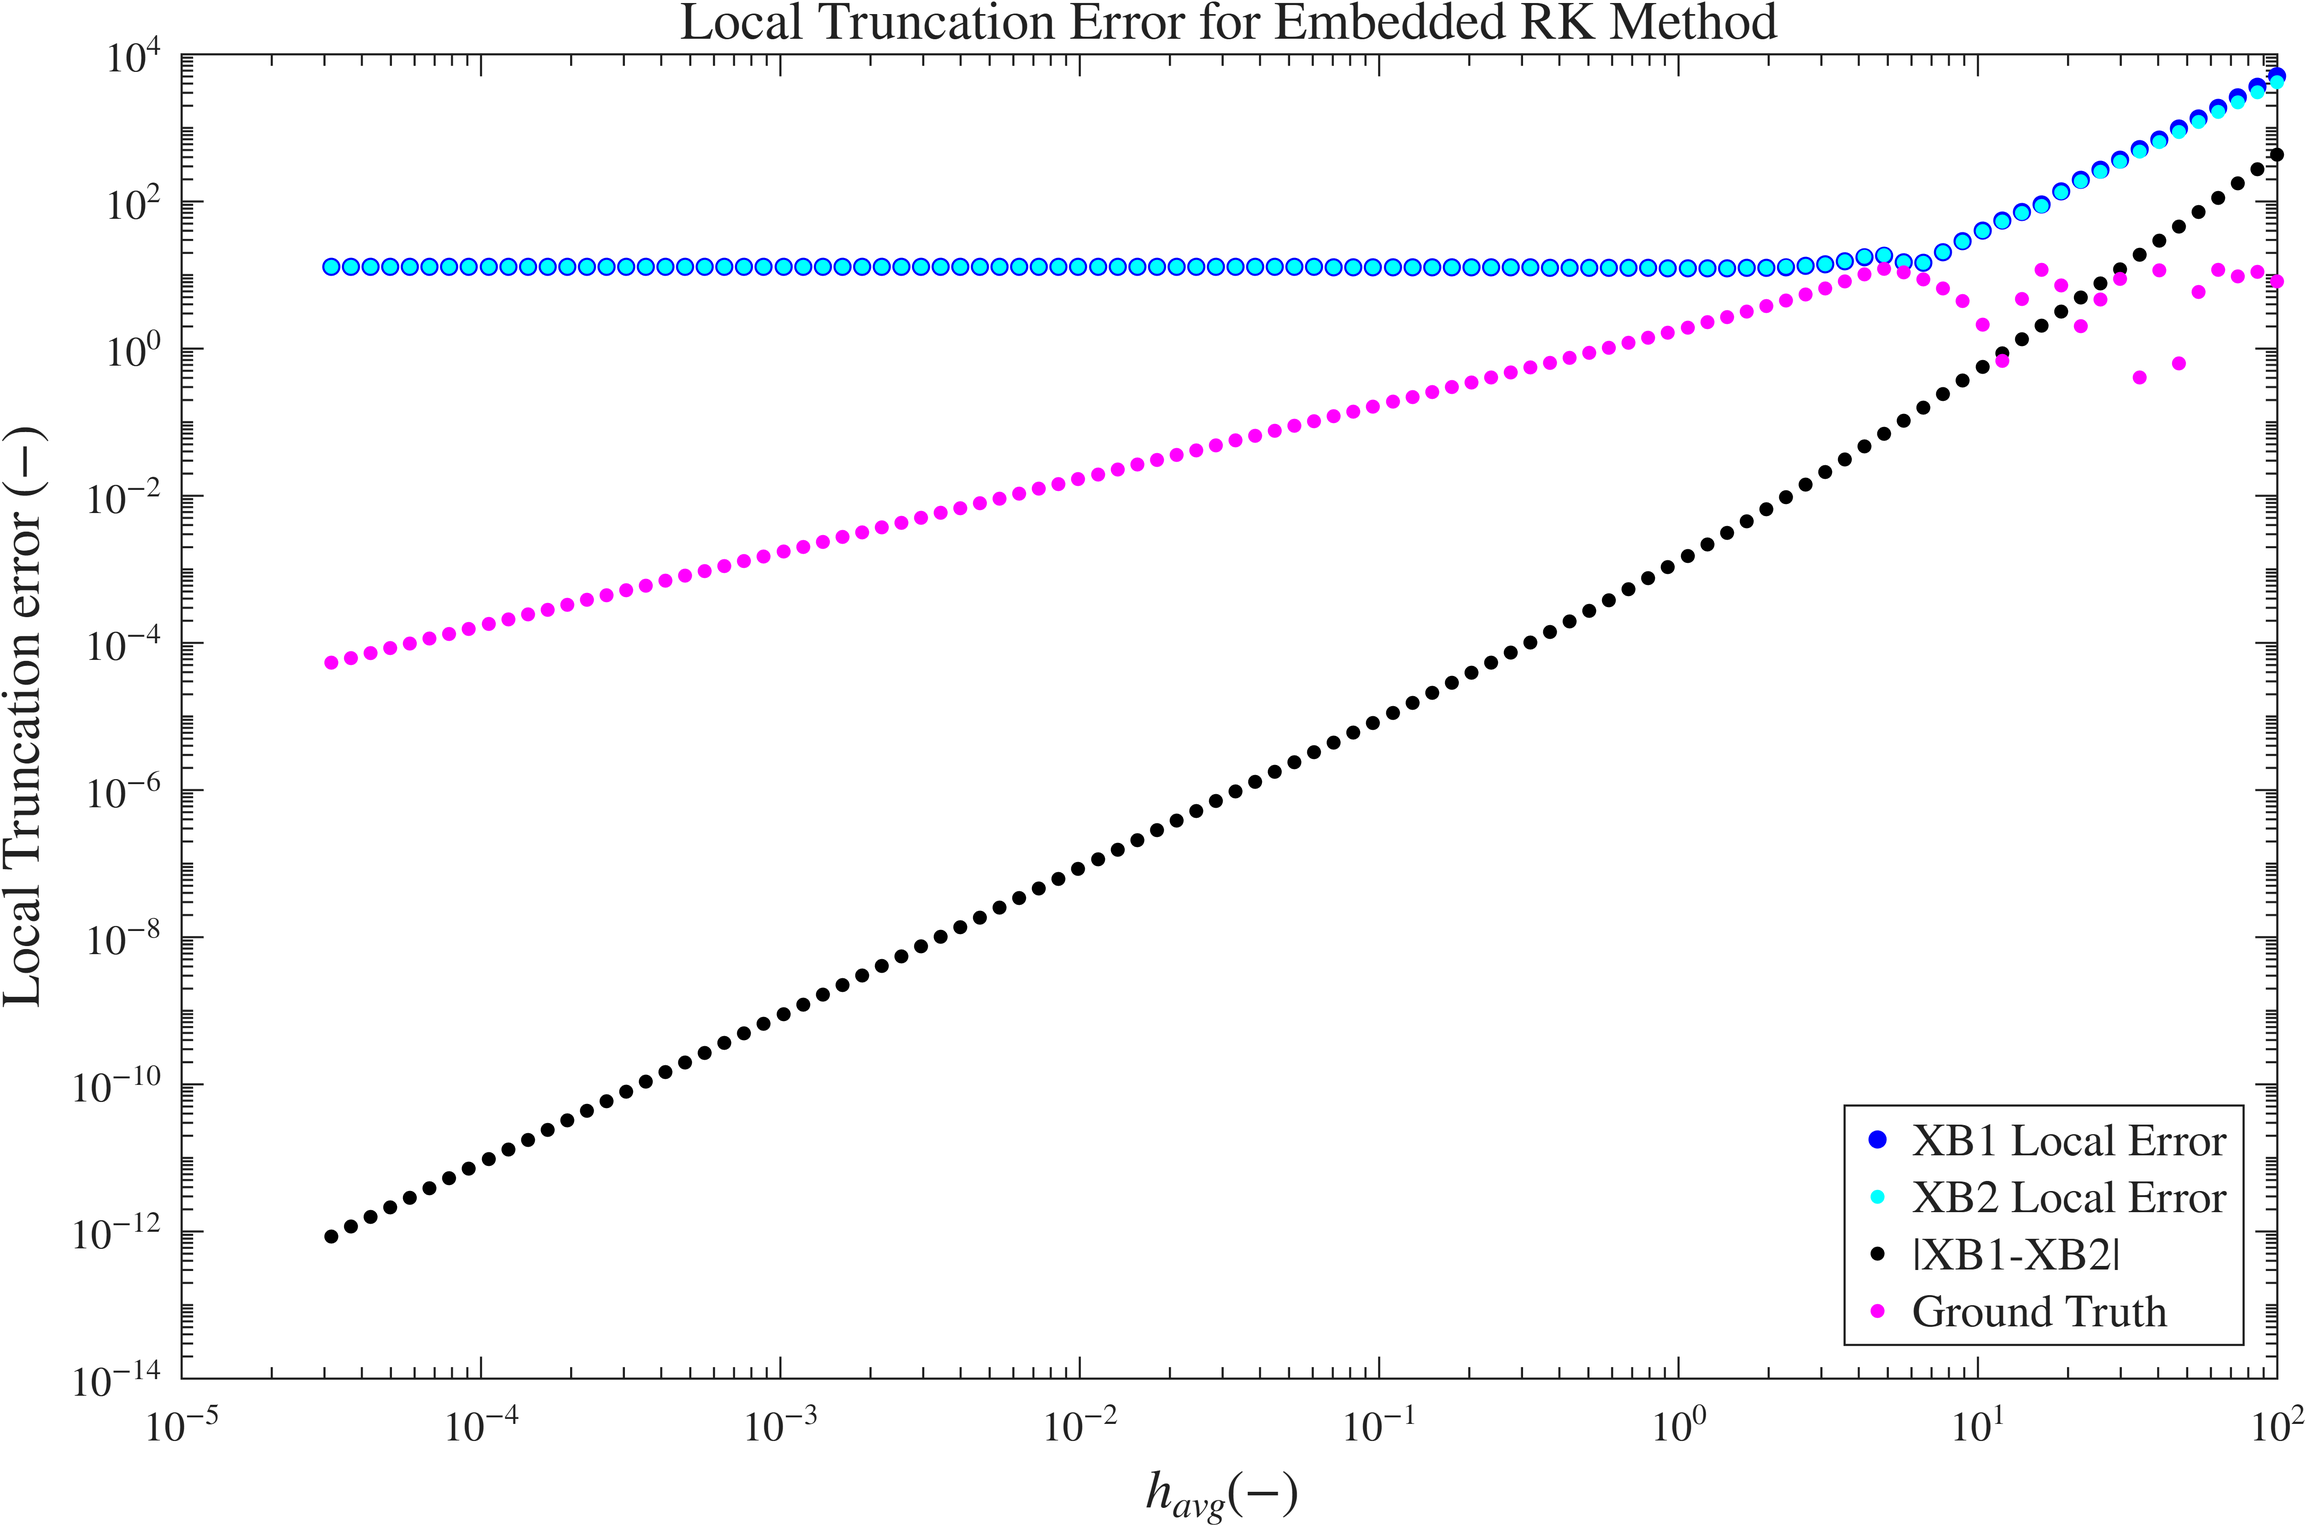
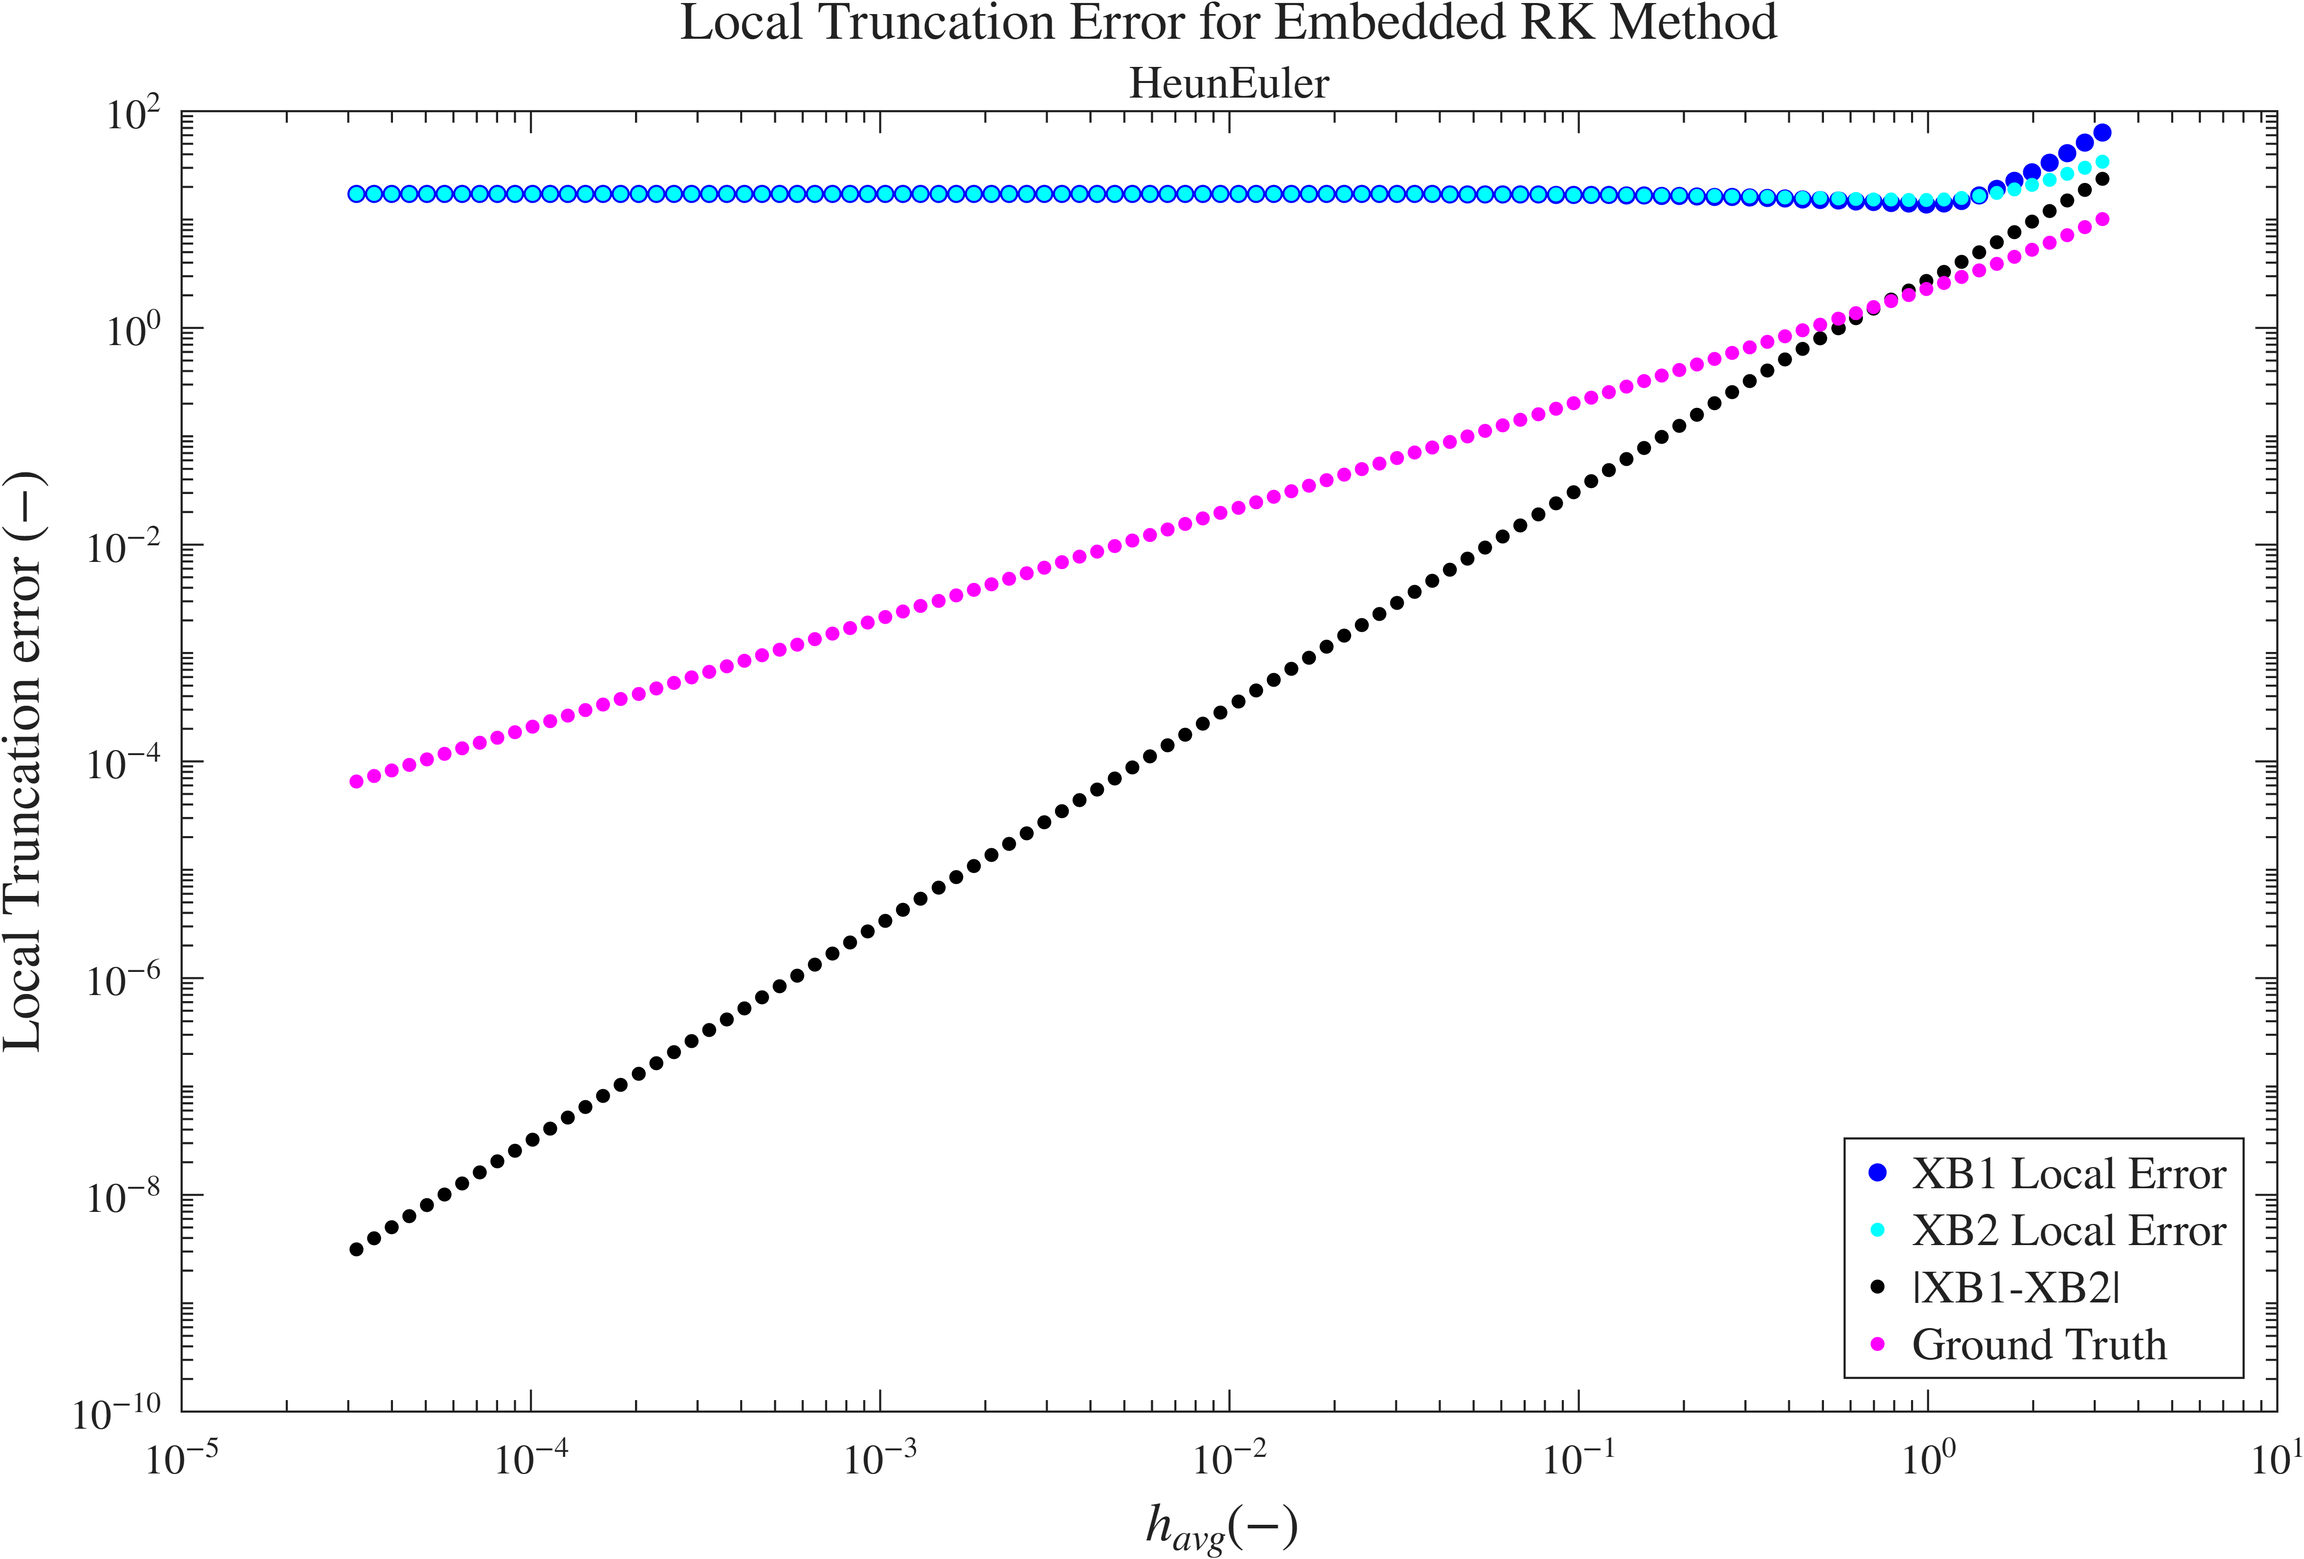
update code

diff --git a/run_local_error.m b/run_local_error.m
@@ -1,5 +1,5 @@
 function run_local_error()
-    close all;
+    %close all;
     set(groot, 'defaultTextInterpreter', 'latex');
     set(groot, 'defaultAxesTickLabelInterpreter', 'latex');
     set(groot, 'defaultLegendInterpreter', 'latex');
@@ -12,12 +12,12 @@ function run_local_error()
     
     BT_struct_var = butcher_tableau_struct_var_step();
     BT_struct_var_names = ["DormandPrince", "Fehlberg", "FehlbergRK1", "HeunEuler", "Bogacki"];
-    index= 3;
-    BT_struct = BT_struct_var(index);
-    t = 0.492;
+    index= 4;
+    BT_struct = BT_struct_var(index)
+    t = 7;
     VA = compute_planetary_motion(t,V0,orbit_params)';
 
-    hs = logspace(-4.5,2,100);
+    hs = logspace(-4.5,.5,100);
     local_errors_1 = zeros(size(hs));
     local_errors_2 = zeros(size(hs));
     approx_sol_diff = zeros(size(hs));
@@ -43,7 +43,7 @@ function run_local_error()
         % local_errors_i(n) = l_ei;
         
     end
-    
+
     figure();
     loglog(hs, local_errors_1, "b.", MarkerSize=13); hold on
     loglog(hs, local_errors_2, "c.", MarkerSize=10);
@@ -52,9 +52,20 @@ function run_local_error()
     loglog(hs, solution_diff, "m.", MarkerSize=10);
 
     title("Local Truncation Error for Embedded RK Method",'FontSize',13);
+    subtitle(BT_struct_var_names(index));
     xlabel("$h_{avg} (-)$ ",'FontSize',13);
     ylabel("Local Truncation error $(-)$",'FontSize',13)
     legend("XB1 Local Error", "XB2 Local Error", "|XB1-XB2|", "Ground Truth", 'FontSize',11, "Location", "southeast")
+    
+    p_XB1 = polyfit(log(hs), log(local_errors_1), 1)
+    p_XB2 = polyfit(log(hs), log(local_errors_2), 1)
+    p_diff = polyfit(log(hs), log(approx_sol_diff), 1)
 
     myfig = gcf();
     exportgraphics(myfig , 'local_err_explicit_01.png', 'Resolution', 600);
+    
+
+
+
+
+end

diff --git a/local_error_calc.m b/local_error_calc.m
@@ -2,6 +2,6 @@ function [error1, error2, abs_diff, diff] = local_error(rate_func_in, sol_func, 
     [XB1,XB2,num_evals]=RK_step_embedded(rate_func_in,t,XA,h,BT_struct, orbit_params);
     error1 = norm(XB1 - sol_func(t + h,XA, orbit_params));
     error2 = norm(XB2 - sol_func(t + h,XA, orbit_params));
-    abs_diff = abs(norm(XB1-XB2));
+    abs_diff = norm(abs(XB1-XB2));
     diff = norm(sol_func(t+h,XA, orbit_params) - sol_func(t,XA, orbit_params));
 end
